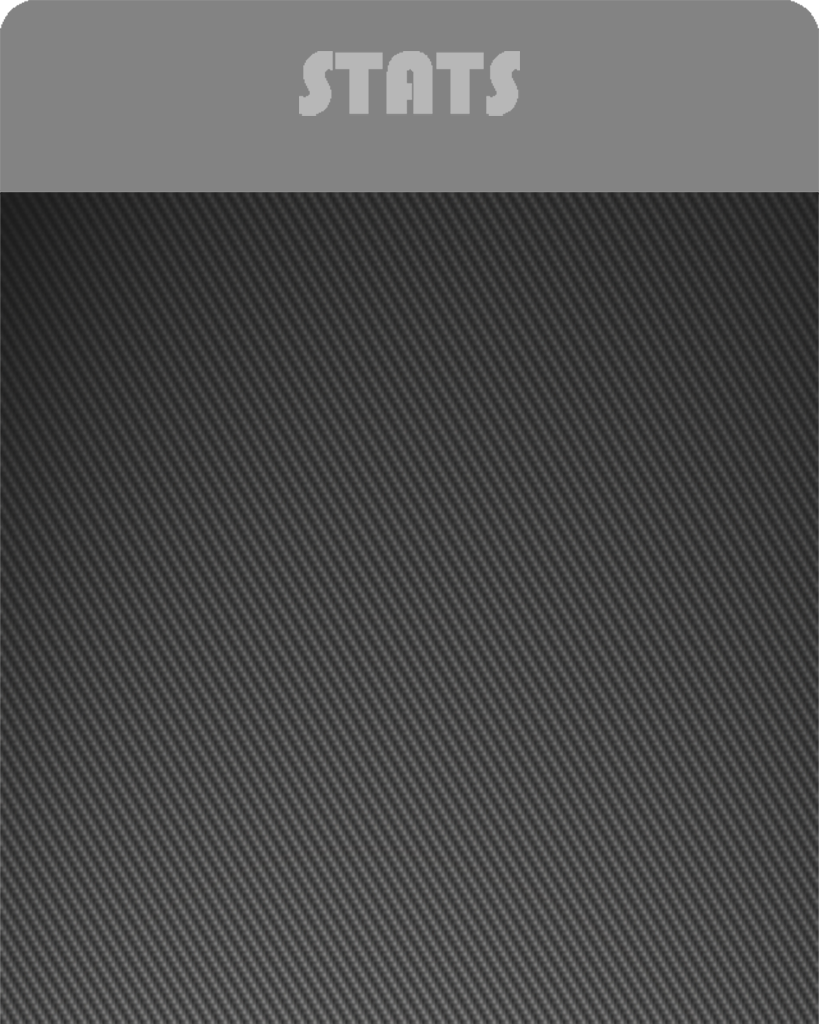
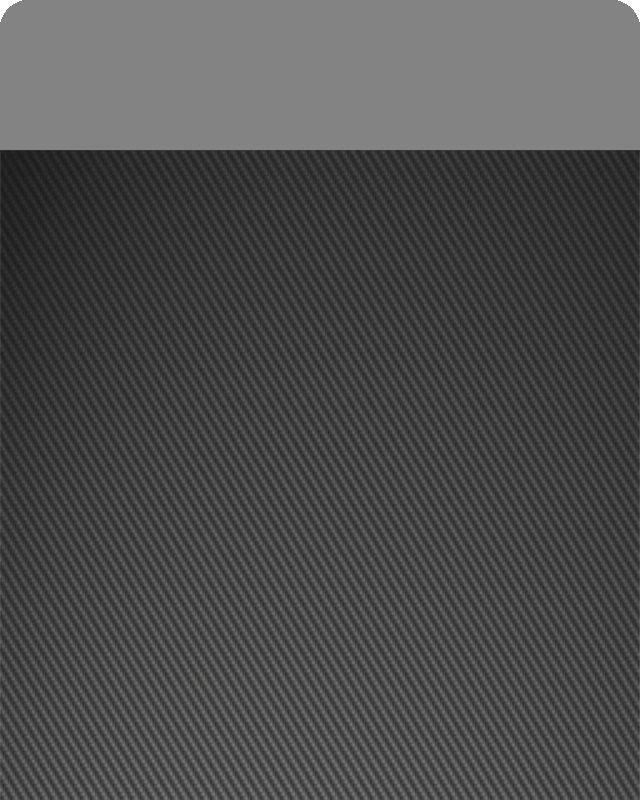
New stats view to display stats.

Changed region(s): [[0.3438, 0.0312, 0.6562, 0.125]]

diff --git a/ProjectGray/ProjectGray/GameViewController.h b/ProjectGray/ProjectGray/GameViewController.h
@@ -49,6 +49,12 @@
 @property (weak, nonatomic) IBOutlet UIView *winView;
 @property (weak, nonatomic) IBOutlet UIImageView *winImageView;
 
+@property (strong, nonatomic) IBOutlet UILabel *shipName;
+@property (strong, nonatomic) IBOutlet UIImageView *shipImage;
+@property (strong, nonatomic) IBOutlet UILabel *shipAP;
+@property (strong, nonatomic) IBOutlet UILabel *shipStats;
+@property (strong, nonatomic) IBOutletCollection(UIImageView) NSArray *shipPowerups;
+
 /**
  * Notifies the game that the given faction has won.
  * @param winner The winning faction.
